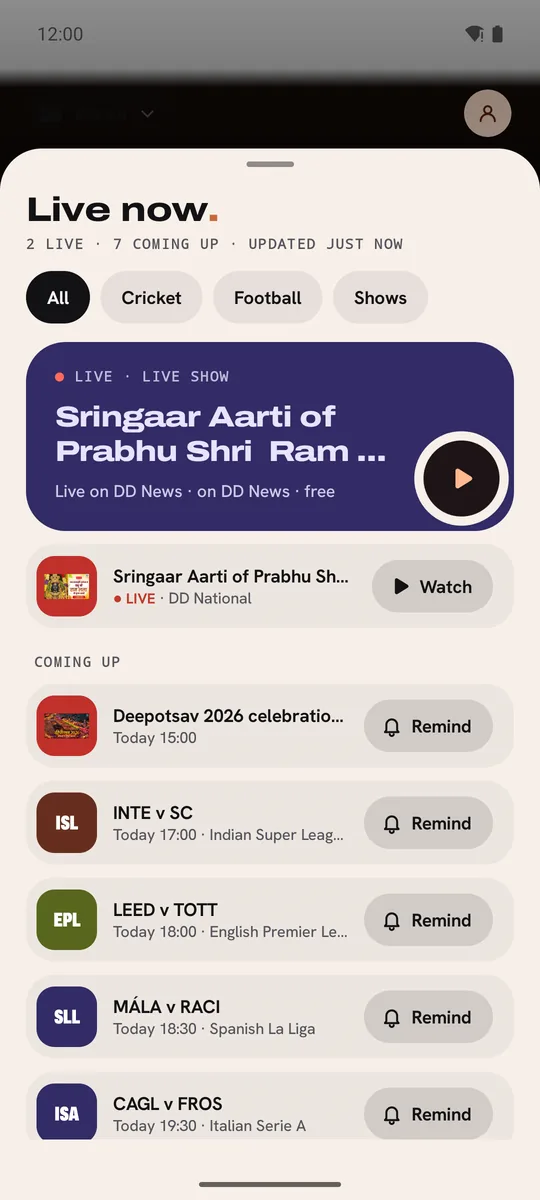
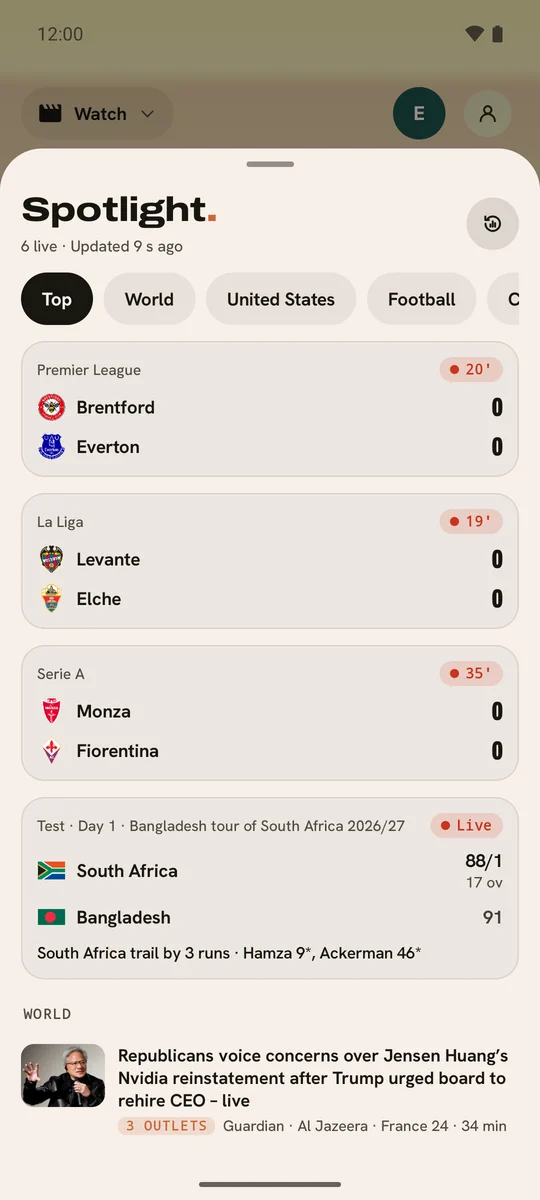
Fresh screenshots of the current app in the README

diff --git a/README.md b/README.md
@@ -28,10 +28,10 @@
 <picture>
   <source media="(prefers-color-scheme: dark)" srcset="docs/images/phone-music-home-dark.webp">
   <source media="(prefers-color-scheme: light)" srcset="docs/images/phone-music-home-light.webp">
-  <img alt="Music's Home on a phone in the Orbit design: a Live pill at the top, a Good morning greeting, the playing song's round cover with its progress drawn as an orbit round the disc, mix chips and a Start a room card" src="docs/images/phone-music-home-light.webp" width="300">
+  <img alt="Music's Home on a phone in the Orbit design: the Spotlight line at the top, a Late night greeting, a chart card with its round cover, mix chips, and the playing song at the foot with its progress drawn as an orbit round the disc" src="docs/images/phone-music-home-light.webp" width="300">
 </picture>
 
-<sub>The pictures on this page are screenshots of Cosmotune 1.0.17 on a phone, a desktop, a TV and a watch. The songs, videos, channels and logos in them belong to their owners.</sub>
+<sub>The pictures on this page are screenshots of Cosmotune on a phone, a desktop, a TV and a watch. The songs, videos, channels and logos in them belong to their owners.</sub>
 
 </div>
 
@@ -47,16 +47,16 @@ Visit the [Cosmotune website](https://cosmotune.shutterisland.in/), [OpenCanvas 
 
 <table>
   <tr>
-    <td align="center" width="25%"><img alt="Now Playing on a phone: the song's music video shown whole in a rounded frame, and below it the song card with the title, the seek bar, the controls and a round pause button, then Lyrics, Up next and Related" src="docs/images/phone-now-playing-video-dark.webp" width="180"><br><sub>The music video, shown whole</sub></td>
+    <td align="center" width="25%"><img alt="Now Playing on a phone: the song's music video shown whole in a rounded frame, and below it the song card with the title, the seek bar, the controls and a round pause button, then Lyrics, Up next, Related and Best part" src="docs/images/phone-now-playing-video-dark.webp" width="180"><br><sub>The music video, shown whole</sub></td>
     <td align="center" width="25%"><img alt="Synced lyrics on a phone, the current line lit in the cover's colour, with the lyrics source, translate buttons and the song card below" src="docs/images/phone-now-playing-lyrics-dark.webp" width="180"><br><sub>Lyrics that follow the song</sub></td>
-    <td align="center" width="25%"><img alt="Watch's Live TV page on a phone: 14,176 free channels, country and language chips, and a programme guide with each channel's current and next programme" src="docs/images/phone-watch-live-tv-guide-dark.webp" width="180"><br><sub>Watch: live TV with a guide</sub></td>
-    <td align="center" width="25%"><img alt="The Live now sheet on a phone: a live show on DD News with a play button, the same show on DD National with Watch, and coming-up football matches with Remind buttons" src="docs/images/phone-live-now-sheet-dark.webp" width="180"><br><sub>Live now: what's on and what's next</sub></td>
+    <td align="center" width="25%"><img alt="Watch's Live TV page on a phone: 15,687 free channels, country, language and category filters, and a programme guide with each film channel's current and next programme" src="docs/images/phone-watch-live-tv-guide-dark.webp" width="180"><br><sub>Watch: live TV with a guide</sub></td>
+    <td align="center" width="25%"><img alt="The Spotlight sheet on a phone: Top, World, country and Football tabs, live football scores with the minute, a live Test match with runs and overs, and the world's top story with the outlets that carry it" src="docs/images/phone-live-now-sheet-dark.webp" width="180"><br><sub>Spotlight: live scores and the news</sub></td>
   </tr>
   <tr>
-    <td align="center"><img alt="Video mode's Home on a phone: category chips, an Up next for you card with a film review and its channel, Watch later and Watch buttons, then More for you" src="docs/images/phone-video-home-dark.webp" width="180"><br><sub>Video mode, no account needed</sub></td>
-    <td align="center"><img alt="Podio's Radio page on a phone: 2,883 stations worldwide, Globe, region and language filters, a featured station card and round station logos" src="docs/images/phone-podio-dark.webp" width="180"><br><sub>Podio: radio from anywhere</sub></td>
-    <td align="center"><img alt="Read's Library on a phone: Library, Browse and Bookmarks tabs, books trending on Open Library, and a search over your own books" src="docs/images/phone-read-dark.webp" width="180"><br><sub>Read: books and manga</sub></td>
-    <td align="center"><img alt="The profile drawer on a phone: a Sign in card, the modes Music, Video, Watch, Podio, Read and Manga, then Your listening, Replay, Listen together, Downloads, Equalizer and Settings" src="docs/images/phone-profile-drawer-dark.webp" width="180"><br><sub>Every mode from one drawer</sub></td>
+    <td align="center"><img alt="Video mode's Home on a phone: category chips, Continue watching with a music video and how far you got, then an Up next for you card" src="docs/images/phone-video-home-dark.webp" width="180"><br><sub>Video mode, no account needed</sub></td>
+    <td align="center"><img alt="Podio's Radio page on a phone: 2,997 stations worldwide, Globe, region and language filters and round station logos" src="docs/images/phone-podio-dark.webp" width="180"><br><sub>Podio: radio from anywhere</sub></td>
+    <td align="center"><img alt="Read's Browse page on a phone: Trending, Public domain, New Classics and Archive catalogues, and new public-domain books from Standard Ebooks" src="docs/images/phone-read-dark.webp" width="180"><br><sub>Read: books and manga</sub></td>
+    <td align="center"><img alt="The profile drawer on a phone: a Sign in card, a Light, Dark and System theme switch, the modes Music, Video, Watch, Podio, Read and Manga, then Your listening, Replay, Listen together, Downloads, Equalizer and Settings" src="docs/images/phone-profile-drawer-dark.webp" width="180"><br><sub>Every mode from one drawer</sub></td>
   </tr>
 </table>
 
@@ -64,12 +64,12 @@ Visit the [Cosmotune website](https://cosmotune.shutterisland.in/), [OpenCanvas 
 
 <table>
   <tr>
-    <td align="center" width="50%"><img alt="Music's Home on the desktop: a sidebar with the mode switcher and search, a Good morning greeting, a featured song card with its round cover, a Start a room card, mix chips and a list of song matches" src="docs/images/desktop-music-home-dark.webp" width="420"><br><sub>Music on the desktop</sub></td>
-    <td align="center" width="50%"><img alt="Now Playing on the desktop: the music video shown whole on the left above the song card with its controls, volume and audio details, and the Up next list on the right with drag handles" src="docs/images/desktop-now-playing-video-dark.webp" width="420"><br><sub>Now Playing with the video and Up next</sub></td>
+    <td align="center" width="50%"><img alt="Music's Home on the desktop: a sidebar with the mode switcher and search, a Late night greeting, a chart card with its round cover, mix chips, India's trending charts, a Listen together card and the playing song at the foot" src="docs/images/desktop-music-home-dark.webp" width="420"><br><sub>Music on the desktop</sub></td>
+    <td align="center" width="50%"><img alt="Now Playing on the desktop: the music video shown whole on the left above the song card with its controls, a waveform seek line and the audio quality, and the Up next list on the right with drag handles" src="docs/images/desktop-now-playing-video-dark.webp" width="420"><br><sub>Now Playing with the video and Up next</sub></td>
   </tr>
   <tr>
-    <td align="center"><img alt="Watch's Home on the desktop: a sidebar with Home, Films, Series, Live TV, Search, My list, Downloads and Plugins, a featured free archive film, a Live now row of Tamil news channels and free classic films" src="docs/images/desktop-watch-home-dark.webp" width="420"><br><sub>Watch on the desktop</sub></td>
-    <td align="center"><img alt="A live channel playing in Watch on the desktop: DD Mizoram from the iptv-org free channels, with Audio, Subtitles and Watch together" src="docs/images/desktop-watch-live-dark.webp" width="420"><br><sub>A DD channel, live</sub></td>
+    <td align="center"><img alt="Watch's Home on the desktop: a sidebar with Search, Home, Films, Series, Live TV, My list, Downloads, Plugins and Watch settings, a featured free film from YouTube, a Live now row of Indian news channels and free classic films" src="docs/images/desktop-watch-home-dark.webp" width="420"><br><sub>Watch on the desktop</sub></td>
+    <td align="center"><img alt="A live channel playing in Watch on the desktop: DD National from the iptv-org free channels, with Audio, Subtitles and Watch together" src="docs/images/desktop-watch-live-dark.webp" width="420"><br><sub>A DD channel, live</sub></td>
   </tr>
 </table>
 
@@ -77,12 +77,12 @@ Visit the [Cosmotune website](https://cosmotune.shutterisland.in/), [OpenCanvas 
 
 <table>
   <tr>
-    <td align="center" width="50%"><img alt="Home on Android TV: a row of tabs with Home focused, a large card for the paused video with its round cover and play button, and round chart covers below" src="docs/images/tv-home.webp" width="420"><br><sub>Home on the TV</sub></td>
-    <td align="center" width="50%"><img alt="Watch on Android TV: the Tonight page with a featured free film from YouTube, its poster, My list, a dimmed Watch together and a focused play button" src="docs/images/tv-watch.webp" width="420"><br><sub>Watch on the TV</sub></td>
+    <td align="center" width="50%"><img alt="Home on Android TV: a row of tabs with Home focused, a large card for the paused radio station with its round logo and play button, and round chart covers below" src="docs/images/tv-home.webp" width="420"><br><sub>Home on the TV</sub></td>
+    <td align="center" width="50%"><img alt="Watch on Android TV: Continue watching, then a focused featured free film from YouTube with its poster, My list, a dimmed Together and the play button" src="docs/images/tv-watch.webp" width="420"><br><sub>Watch on the TV</sub></td>
   </tr>
   <tr>
-    <td align="center"><img alt="Live TV on Android TV: 14,090 free channels, country and language chips, and a programme guide with a star to save each channel" src="docs/images/tv-live-tv.webp" width="420"><br><sub>Live TV with a guide</sub></td>
-    <td align="center"><img alt="Radio on Android TV: Radio, Podcasts and Saved tabs, a station search and a grid of round station logos with one focused" src="docs/images/tv-radio.webp" width="420"><br><sub>Podio radio on the TV</sub></td>
+    <td align="center"><img alt="Live TV on Android TV: 15,687 free channels, language and category chips with Films chosen, and a programme guide with a star to save each channel" src="docs/images/tv-live-tv.webp" width="420"><br><sub>Live TV with a guide</sub></td>
+    <td align="center"><img alt="Radio on Android TV: a station search and a grid of round station logos with one focused" src="docs/images/tv-radio.webp" width="420"><br><sub>Podio radio on the TV</sub></td>
   </tr>
 </table>
 
@@ -90,8 +90,8 @@ Visit the [Cosmotune website](https://cosmotune.shutterisland.in/), [OpenCanvas 
 
 <table>
   <tr>
-    <td align="center" width="50%"><img alt="The Cosmotune watch app's Podio menu on a round Wear OS screen: Saved radio from the phone's favourites, and Popular radio from Radio Browser" src="docs/images/wear-podio.webp" width="200"><br><sub>Podio on the watch</sub></td>
-    <td align="center" width="50%"><img alt="The Cosmotune watch app on a round Wear OS screen when the phone is out of reach: Phone not connected, with Try again and Saved Podio" src="docs/images/wear-not-connected.webp" width="200"><br><sub>Saved Podio lists stay readable without the phone</sub></td>
+    <td align="center" width="50%"><img alt="The Cosmotune watch app's Podio menu on a round Wear OS screen: Listen on this watch, for public radio and podcasts with no phone needed, and Saved radio from the phone's favourites" src="docs/images/wear-podio.webp" width="200"><br><sub>Podio on the watch</sub></td>
+    <td align="center" width="50%"><img alt="The Cosmotune watch app on a round Wear OS screen when the phone is out of reach: Phone not connected, with Try again and Open Podio" src="docs/images/wear-not-connected.webp" width="200"><br><sub>Podio still plays without the phone</sub></td>
   </tr>
 </table>
 
@@ -135,10 +135,10 @@ Visit the [Cosmotune website](https://cosmotune.shutterisland.in/), [OpenCanvas 
       <p>The sleep timer shows as a pill with the time left in Now Playing, beside pills for the other features in use. It pauses on
       time with the screen off, and pauses casting, rooms, Video and Watch too.</p>
     </td>
-    <td width="36%" align="center"><img alt="Now Playing in the light theme on a phone: the music video shown whole above the song card, and a sleep timer pill with a moon and 14:44 left beside Lyrics, Up next and Related" src="docs/images/phone-now-playing-sleep-timer-light.webp" width="230"></td>
+    <td width="36%" align="center"><img alt="Now Playing in the light theme on a phone: the music video shown whole above the song card, and a sleep timer pill with a moon and 7:45 left beside Lyrics, Up next and Related" src="docs/images/phone-now-playing-sleep-timer-light.webp" width="230"></td>
   </tr>
   <tr>
-    <td align="center"><img alt="Video mode's Home in the light theme on a phone: category chips, an Up next for you card with a news report, its channel, Watch later and Watch buttons, and the dock at the foot" src="docs/images/phone-video-home-light.webp" width="230"></td>
+    <td align="center"><img alt="Video mode's Home in the light theme on a phone: category chips, an Up next for you card with a gaming video, its channel, Play, Watch later and Save buttons, then More for you and the dock at the foot" src="docs/images/phone-video-home-light.webp" width="230"></td>
     <td>
       <h3>Video mode</h3>
       <p>A full video app in the same install, with no account and no cookies: search, channels, subscriptions with a feed of their
@@ -171,10 +171,10 @@ Visit the [Cosmotune website](https://cosmotune.shutterisland.in/), [OpenCanvas 
       sources.</p>
       <p>Film and series details come from TMDB. This product uses the TMDB API but is not endorsed or certified by TMDB.</p>
     </td>
-    <td align="center"><img alt="Watch's Live TV page in the light theme on a phone: Home, Films, Series, Live TV and Search tabs, 14,176 free channels, country and language chips, and the programme guide" src="docs/images/phone-watch-live-tv-guide-light.webp" width="230"></td>
+    <td align="center"><img alt="Watch's Live TV page in the light theme on a phone: 15,687 free channels, country, language and category filters, the programme guide, and Home, Live TV, My list and Downloads in the dock" src="docs/images/phone-watch-live-tv-guide-light.webp" width="230"></td>
   </tr>
   <tr>
-    <td align="center"><img alt="The Live now sheet in the light theme on a phone: two live and seven coming up, filters for Cricket, Football and Shows, a live show on DD News and DD National, and football matches with Remind buttons" src="docs/images/phone-live-now-sheet-light.webp" width="230"></td>
+    <td align="center"><img alt="The Spotlight sheet in the light theme on a phone: six live, Top, World, country and Football tabs, live football scores and a live Test match, then the world's top story" src="docs/images/phone-live-now-sheet-light.webp" width="230"></td>
     <td>
       <h3>Spotlight</h3>
       <p>One line at the top of every mode shows what matters most right now: a live match you follow with its minute and latest
